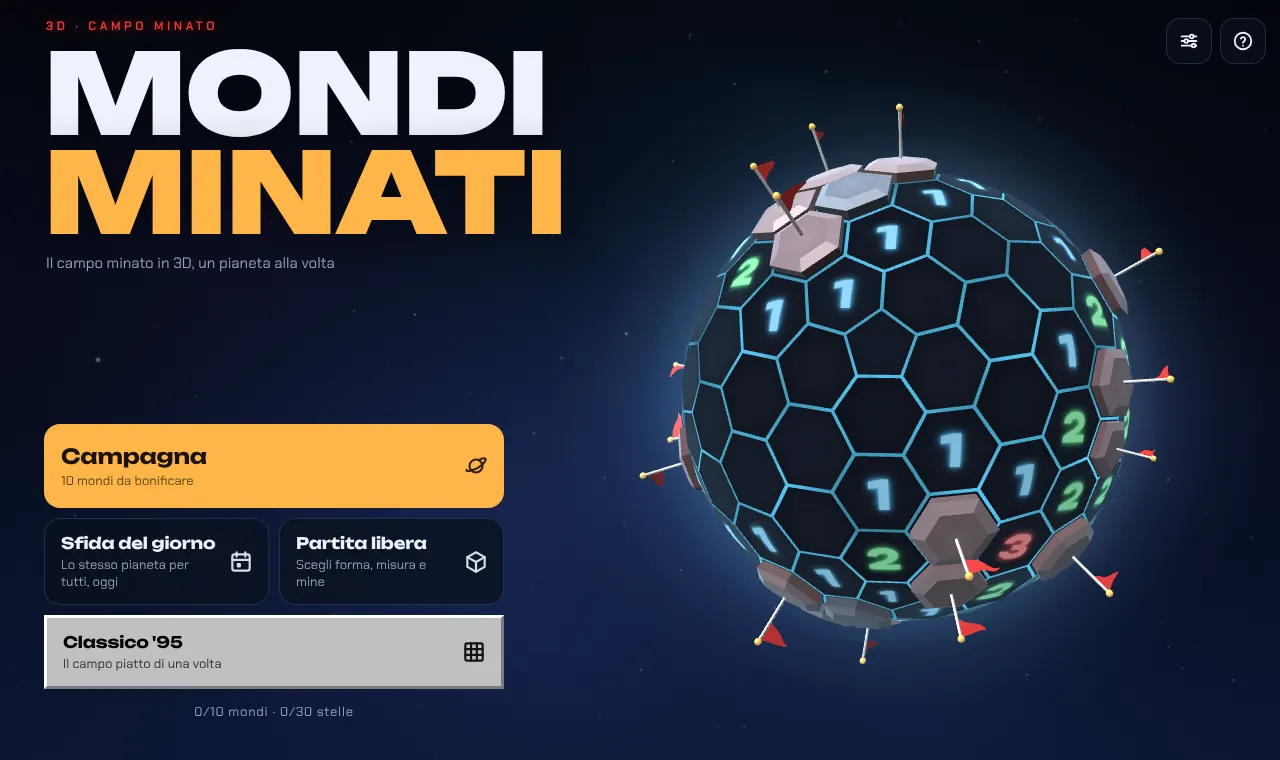
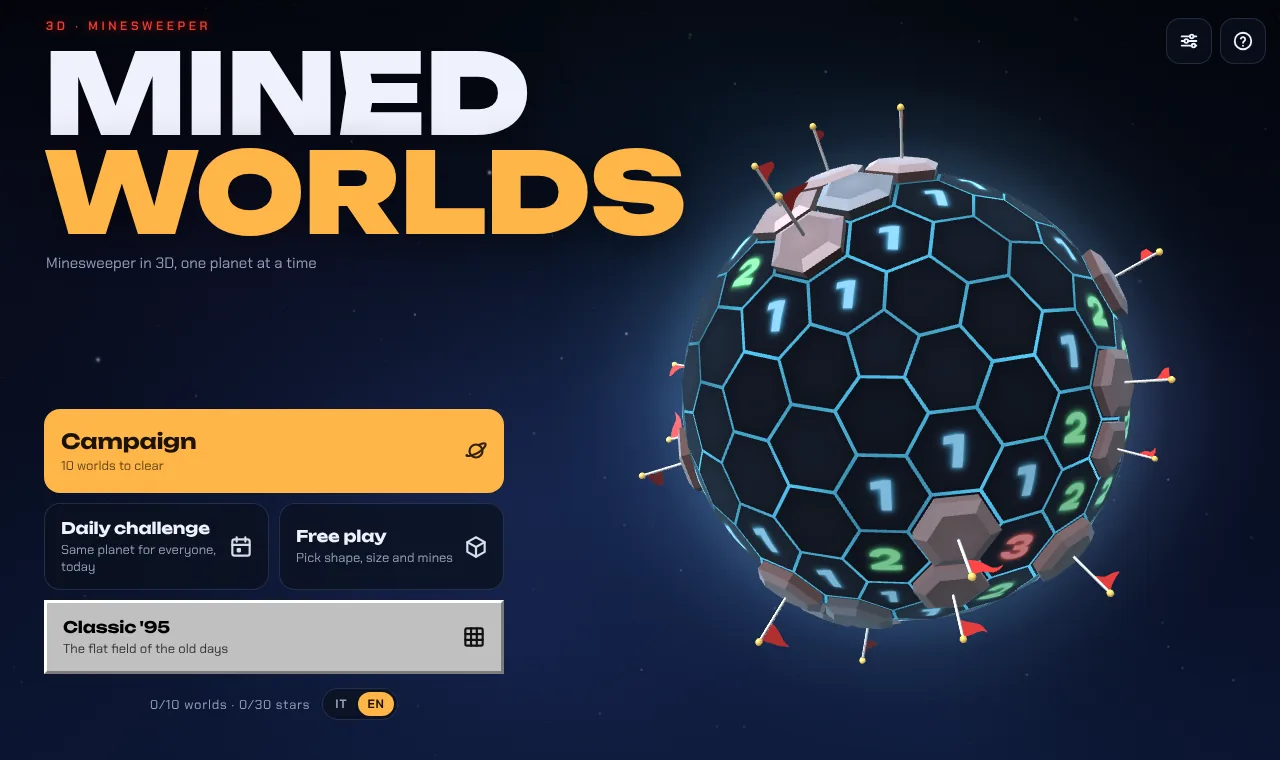
README for the public repo, link previews
- Play link at the top, new English screenshots (gas giant, titan cube,
  classic, donut on a phone), credits for three.js and the fonts
- Open Graph and Twitter card tags with a 1200x630 preview image, so a
  shared link shows the title screen (SITE_URL overrides the domain)
- test/readme_shots.py regenerates the screenshots and the preview

Claude-Session: https://claude.ai/code/session_01UeYtvbDRtkMBUPef3rLywy

diff --git a/test/readme_shots.py b/test/readme_shots.py
@@ -1,0 +1,131 @@
+"""Regenerate the README screenshots and the link-preview image.
+
+    npm run build:test
+    python3 -m http.server 8765          # from the project folder
+    python3 test/readme_shots.py         # PNGs in shots/, WebP/JPEG in docs/ and public/
+
+Uses the ?debug hook (window.__mm) to start levels and play a few logical moves.
+"""
+import os
+import sys
+from playwright.sync_api import sync_playwright
+from PIL import Image
+
+URL = 'http://127.0.0.1:8765/test/out/test.html?debug'
+ARGS = ['--use-angle=swiftshader', '--enable-unsafe-swiftshader', '--ignore-gpu-blocklist', '--enable-webgl']
+ROOT = os.path.dirname(os.path.dirname(os.path.abspath(__file__)))
+SHOTS = os.path.join(ROOT, 'shots')
+DOCS = os.path.join(ROOT, 'docs')
+
+# play logical moves, then flag some of the mines touching the open area
+PLAY = """
+async ({ steps, flagEvery }) => {
+  const m = window.__mm, S = m.S, f = S.field;
+  const sleep = (ms) => new Promise((r) => setTimeout(r, ms));
+  for (let i = 0; i < steps; i++) {
+    if (S.status === 'won' || S.status === 'lost') break;
+    const c = m.findLogicalSafe(f.nb, f.counts, f.mineCount, f.revealed);
+    if (c < 0) break;
+    m.primary(c);
+    await sleep(40);
+  }
+  const front = [];
+  for (let c = 0; c < f.n; c++) {
+    if (!f.revealed[c] && f.mines[c] && !f.flags[c] && f.nb[c].some((y) => f.revealed[y])) front.push(c);
+  }
+  let k = 0;
+  for (const c of front) {
+    if (k++ % flagEvery !== flagEvery - 1) { m.doFlag(c); await sleep(30); }
+  }
+  return { status: S.status, revealed: f.revealedCount, n: f.n, flags: f.flagCount };
+}
+"""
+
+
+def context(browser, w, h, mobile=False):
+    return browser.new_context(
+        viewport={'width': w, 'height': h},
+        device_scale_factor=2 if mobile else 1,
+        is_mobile=mobile,
+        has_touch=mobile,
+        locale='en-US',
+    )
+
+
+def game_shot(page, start_js, name, steps, flag_every=3, mobile=False, settle=2600, at=(0.5, 0.5)):
+    page.evaluate(start_js)
+    page.wait_for_timeout(2800)
+    vp = page.viewport_size
+    x, y = vp['width'] * at[0], vp['height'] * at[1]
+    if mobile:
+        page.touchscreen.tap(x, y)
+    else:
+        page.mouse.click(x, y)
+    page.wait_for_timeout(900)
+    res = page.evaluate(PLAY, {'steps': steps, 'flagEvery': flag_every})
+    page.wait_for_timeout(settle)
+    path = os.path.join(SHOTS, name + '.png')
+    page.screenshot(path=path)
+    print(name, res)
+    return path
+
+
+def webp(src, dst, width=None, quality=82):
+    im = Image.open(src).convert('RGB')
+    if width and im.width != width:
+        im = im.resize((width, round(im.height * width / im.width)), Image.LANCZOS)
+    im.save(dst, 'WEBP', quality=quality, method=6)
+    print(dst, im.size, os.path.getsize(dst) // 1024, 'KB')
+
+
+def main():
+    only = set(sys.argv[1:])
+    os.makedirs(SHOTS, exist_ok=True)
+    with sync_playwright() as p:
+        b = p.chromium.launch(executable_path='/usr/bin/google-chrome', args=ARGS)
+
+        if not only or 'desktop' in only:
+            page = context(b, 1280, 760).new_page()
+            page.goto(URL)
+            page.wait_for_timeout(5000)
+            page.screenshot(path=os.path.join(SHOTS, 'readme_title.png'))
+            game_shot(page, 'window.__mm.startLevel(window.__mm.campaignLevel(8))', 'readme_planet', 70)
+            game_shot(page, 'window.__mm.startLevel(window.__mm.campaignLevel(5))', 'readme_cube', 40)
+            game_shot(page, 'window.__mm.startLevel(window.__mm.classicLevel(1))', 'readme_classic', 45, flag_every=2)
+
+        if not only or 'mobile' in only:
+            page = context(b, 390, 844, mobile=True).new_page()
+            page.goto(URL)
+            page.wait_for_timeout(5000)
+            # tap the near side of the ring, not the hole in the middle
+            game_shot(page, 'window.__mm.startLevel(window.__mm.campaignLevel(3))', 'readme_mobile_donut', 45,
+                      mobile=True, at=(0.5, 0.64))
+
+        if not only or 'og' in only:
+            page = context(b, 1200, 630).new_page()
+            page.goto(URL)
+            page.wait_for_timeout(5000)
+            # a cleaner card: no corner buttons, no progress line
+            page.add_style_tag(content='.icons, .progress-line { visibility: hidden !important; }')
+            page.wait_for_timeout(300)
+            page.screenshot(path=os.path.join(SHOTS, 'og.png'))
+        b.close()
+
+    def have(n):
+        return os.path.exists(os.path.join(SHOTS, n))
+
+    if have('readme_title.png'):
+        webp(os.path.join(SHOTS, 'readme_title.png'), os.path.join(DOCS, 'title.webp'))
+    for n in ('planet', 'cube', 'classic'):
+        if have(f'readme_{n}.png'):
+            webp(os.path.join(SHOTS, f'readme_{n}.png'), os.path.join(DOCS, f'{n}.webp'))
+    if have('readme_mobile_donut.png'):
+        webp(os.path.join(SHOTS, 'readme_mobile_donut.png'), os.path.join(DOCS, 'mobile-donut.webp'), width=520)
+    if have('og.png'):
+        dst = os.path.join(ROOT, 'public', 'og.jpg')
+        Image.open(os.path.join(SHOTS, 'og.png')).convert('RGB').save(dst, 'JPEG', quality=86, optimize=True, progressive=True)
+        print(dst, os.path.getsize(dst) // 1024, 'KB')
+
+
+if __name__ == '__main__':
+    main()

diff --git a/README.md b/README.md
@@ -1,16 +1,18 @@
 # Mined Worlds (Mondi Minati)
 
-Minesweeper in 3D, one planet at a time. Three.js and plain JavaScript, no framework: the build is a static site ready for Cloudflare Pages.
+Minesweeper in 3D, one planet at a time. Three.js and plain JavaScript, no framework: the build is a static site.
+
+**[▶ Play it in your browser](https://mondi-minati.davide-venezia.workers.dev/)**: phone or computer, nothing to install.
 
 The game is in English and Italian. It follows the device language (Italian devices get Italian, everything else English), and the player can switch from the title screen or in Settings.
 
 ![Title screen](docs/title.webp)
 
-| Titan Cube | Classic '95 |
+| Gas Giant | Titan Cube |
 | --- | --- |
-| ![Cube](docs/cubo.webp) | ![Classic 95](docs/classico.webp) |
-
-<img src="docs/mobile-ciambella.webp" width="260" alt="The donut world on a phone">
+| ![The ringed gas giant, halfway cleared](docs/planet.webp) | ![The Titan Cube, numbers running across its edges](docs/cube.webp) |
+| **Classic '95** | **Donut, on a phone** |
+| ![The classic flat field](docs/classic.webp) | <img src="docs/mobile-donut.webp" width="260" alt="The donut world on a phone"> |
 
 ## What's inside
 
@@ -22,7 +24,7 @@ The game is in English and Italian. It follows the device language (Italian devi
 - **Classic '95**: the flat grey field on a teal background, with LED counters and the smiley (9×9, 16×16, 30×16).
 - **Daily challenge**: the same planet for everyone, generated from the date.
 - **Free play**: pick shape, size and difficulty.
-- **No blind guessing**: the first move is always safe and every field is checked by a logic solver before you play it.
+- **No blind guessing**: the first move is always safe and every field is checked by a logic solver before you play it (on by default, can be turned off in Settings).
 - Hints (3 per world), undo after an explosion, stars and records saved in the browser.
 - Sound effects and music synthesized with WebAudio, no audio files.
 - Installable from the browser (PWA) and playable offline after the first visit.
@@ -51,9 +53,11 @@ npm run build    # static site in dist/
 
 Add `?debug` to the URL to get `window.__mm` in the console (game state and game functions).
 
-## Deploy to Cloudflare Pages
+## Deploy
 
-Once the repository is connected, every push to `main` redeploys the site.
+`npm run build` writes a static site to `dist/` that any static host can serve. The live version runs on Cloudflare, connected to this repository: every push to `main` rebuilds and redeploys it.
+
+To host your own copy on Cloudflare Pages:
 
 1. Cloudflare dashboard → **Workers & Pages** → **Create application** → **Pages** tab → **Import an existing Git repository**.
 2. Pick `Amaraciuri/mondi-minati`, branch `main`, then **Begin setup**.
@@ -66,6 +70,8 @@ Once the repository is connected, every push to `main` redeploys the site.
 From a terminal instead: `npm run build && npx wrangler pages deploy dist --project-name mondi-minati`.
 
 `public/_headers` sets long-term caching on the hashed files (`/assets`, `/fonts`) and a few security headers.
+
+Link previews (WhatsApp, Telegram, LinkedIn, X) use `public/og.jpg` and need absolute URLs: if you deploy somewhere else, build with `SITE_URL=https://your.domain npm run build`.
 
 ## Phone app (Capacitor)
 
@@ -108,4 +114,10 @@ python3 -m http.server 8765        # from the project folder
 python3 test/smoke.py desktop level0,click,autoplay
 ```
 
-Screenshots are written to `shots/`.
+Screenshots are written to `shots/`. `python3 test/readme_shots.py` regenerates the pictures in this README and the link preview.
+
+## Credits
+
+- [three.js](https://threejs.org) (MIT license).
+- Fonts: [Unbounded](https://fontsource.org/fonts/unbounded) and [Chakra Petch](https://fontsource.org/fonts/chakra-petch), served from [Fontsource](https://fontsource.org) packages (SIL Open Font License 1.1).
+- Sound effects and music are synthesized in the browser: no audio files.
